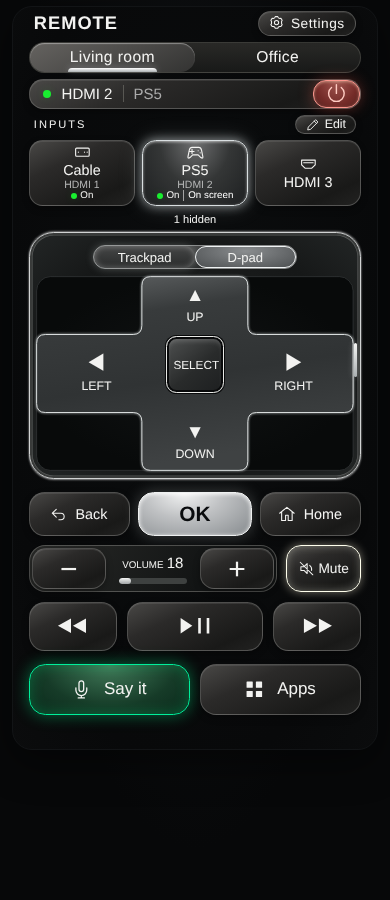
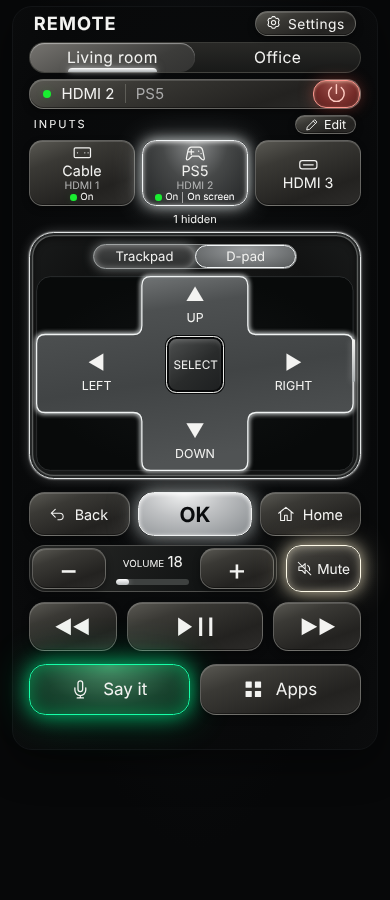
NEXUS mock: tune surfaces and glows to the reference PNG
Brighter chrome and D-pad plate, stronger PS5/OK/Mute/Say it glows, thicker
luminous navigation ring, longer trackpad tail, HDMI icon as a wide slot,
larger media icons, system typeface (SF on iPhone). Browser test still passes;
previews/reference-vs-code.png stacks the reference over the render.

Claude-Session: https://claude.ai/code/session_01MP8wXPz7fte7HKZgZuAaXG

diff --git a/grigson-tv/nexus-remote/NEXUS-Remote.html b/grigson-tv/nexus-remote/NEXUS-Remote.html
@@ -20,7 +20,7 @@
   --voice: #04e58b;
   --coral: #ff8177;
   --press-ms: 110ms;
-  font-family: Arial, Helvetica, sans-serif;
+  font-family: -apple-system, BlinkMacSystemFont, "SF Pro Text", Inter, "Segoe UI", Roboto, Helvetica, Arial, sans-serif;
 }
 * { box-sizing: border-box; }
 body { margin: 0; background: radial-gradient(ellipse at 50% 30%,#111315 0%,var(--page) 65%); color: var(--text); min-height: 100svh; }
@@ -35,14 +35,14 @@ button:active, button.is-pressed { filter: brightness(1.2); transform: scale(.98
 .comparison .remote { width: 100%; }
 .remote-inner { --u: calc(100cqw / 558); padding: calc(6 * var(--u)) calc(24 * var(--u)) calc(52 * var(--u)); font-size: calc(24 * var(--u)); }
 .icon { width: 1.1em; height: 1.1em; vertical-align: middle; flex-shrink: 0; stroke: currentColor; stroke-width: 1.65; fill: none; stroke-linecap: round; stroke-linejoin: round; }
-.chrome { background: linear-gradient(155deg,#494846 0%,#2b2a29 33%,#191918 78%,#222221); border: 1px solid #7979778c; box-shadow: inset 0 1px 0 #ffffff16,0 3px 7px #0005; }
+.chrome { background: linear-gradient(160deg,#5a5953 0%,#3a3935 28%,#232220 72%,#2d2c2a); border: 1px solid #8e8e8a8c; box-shadow: inset 0 1px 0 #ffffff26,inset 0 -1px 0 #0006,0 3px 7px #0006; }
 .header { height: calc(39 * var(--u)); display: flex; align-items: flex-start; justify-content: space-between; padding: 0 calc(8 * var(--u)); }
 .brand { font-size: calc(28 * var(--u)); letter-spacing: .055em; font-weight: 700; margin: calc(2 * var(--u)) 0 0; }
 .settings { display: flex; align-items: center; gap: .5em; padding: 0 calc(16 * var(--u)); height: calc(39 * var(--u)); border-radius: calc(22 * var(--u)); font-size: calc(21 * var(--u)); letter-spacing: .04em; }
 .rooms { margin-top: calc(8 * var(--u)); display: flex; height: calc(48 * var(--u)); border: 1px solid #61615c75; border-radius: calc(24 * var(--u)); background: linear-gradient(#292927,#181918); }
 .room { position: relative; border: 0; flex: 1; background: transparent; border-radius: inherit; font-size: calc(24 * var(--u)); letter-spacing: .025em; }
-.room[aria-pressed=true] { background: linear-gradient(155deg,#656360,#333332); box-shadow: inset 0 1px 1px #ffffff60; }
-.room[aria-pressed=true]::after { content: ''; position: absolute; bottom: 0; height: calc(6 * var(--u)); width: 54%; left: 23%; border-radius: 8px 8px 0 0; background: linear-gradient(#fff,#abb0b2); box-shadow: 0 -1px 7px #dadde350; }
+.room[aria-pressed=true] { background: linear-gradient(155deg,#767470,#3c3c3a 70%,#333332); box-shadow: inset 0 1px 1px #ffffff70; }
+.room[aria-pressed=true]::after { content: ''; position: absolute; bottom: 0; height: calc(6 * var(--u)); width: 54%; left: 23%; border-radius: 8px 8px 0 0; background: linear-gradient(#fff,#abb0b2); box-shadow: 0 -1px 9px #e6e9ee80,0 0 4px #fff6; }
 .status { display: flex; align-items: center; margin-top: calc(9 * var(--u)); height: calc(46 * var(--u)); border-radius: calc(22 * var(--u)); padding-left: calc(21 * var(--u)); gap: calc(16 * var(--u)); font-size: calc(23 * var(--u)); }
 .dot { width: calc(12 * var(--u)); height: calc(12 * var(--u)); border-radius: 50%; background: var(--green); box-shadow: 0 0 8px #22e72a20; display: inline-block; flex: 0 0 auto; }
 .dot.off { background: #656765; box-shadow: none; }
@@ -55,26 +55,26 @@ button:active, button.is-pressed { filter: brightness(1.2); transform: scale(.98
 .edit { border-radius:calc(16 * var(--u)); height:calc(29 * var(--u)); padding:0 calc(14 * var(--u)); display:flex; align-items:center; gap:.45em; font-size:calc(19 * var(--u)); }
 .inputs { display:grid; grid-template-columns:repeat(3,minmax(0,1fr)); gap:calc(10 * var(--u)); }
 .input-card { height:calc(101 * var(--u)); border-radius:calc(21 * var(--u)); padding:calc(7 * var(--u)) calc(3 * var(--u)); display:flex; align-items:center; justify-content:center; flex-direction:column; font-size:calc(22 * var(--u)); line-height:1.12; }
-.input-card > .icon { width:calc(35 * var(--u)); height:calc(25 * var(--u)); margin-bottom:calc(2 * var(--u)); }
+.input-card > .icon { width:calc(44 * var(--u)); height:calc(30 * var(--u)); margin-bottom:calc(1 * var(--u)); stroke-width:1.5; }
 .input-card .port { color:var(--muted); font-size:calc(16 * var(--u)); margin-top:calc(1 * var(--u)); }
 .input-card .state-line { display:flex; align-items:center; justify-content:center; gap:calc(5 * var(--u)); height:calc(22 * var(--u)); font-size:calc(15 * var(--u)); white-space:nowrap; }
 .state-line .dot { width:calc(10 * var(--u)); height:calc(10 * var(--u)); }
 .on-screen { border-left:1px solid #a4a4a4; padding-left:calc(7 * var(--u)); color:#fff; }
-.input-card[aria-pressed=true] { background:radial-gradient(ellipse at 50% 0%,#6f7071,#343636 48%,#242627 85%); border-color:#d9dfe1; box-shadow: inset 0 1px 3px #fff9,0 0 11px #e7f0f299,0 0 25px #d2d6d62e; }
+.input-card[aria-pressed=true] { background:radial-gradient(ellipse at 50% 0%,#8d8f90,#464848 45%,#2c2e2f 85%); border-color:#f1f4f5; box-shadow: inset 0 1px 4px #fffc,inset 0 0 10px #ffffff22,0 0 14px #f1f7f7cc,0 0 32px #d6dada55; }
 .hidden-count { text-align:center; height:calc(40 * var(--u)); display:grid; place-items:center; font-size:calc(17 * var(--u)); margin:0; }
-.navigation { position:relative; height:calc(378 * var(--u)); border-radius:calc(38 * var(--u)); border:calc(2 * var(--u)) solid #d1d3d3; padding:calc(18 * var(--u)) calc(10 * var(--u)) calc(9 * var(--u)); background:radial-gradient(ellipse at 50% 50%,#202222,#161818 65%,#232626); box-shadow:inset 0 0 0 calc(3 * var(--u)) #393b3a,inset 0 0 0 calc(4 * var(--u)) #a1a4a270,0 1px 2px #fff8,0 -1px 2px #ffffff70; overflow:hidden; }
+.navigation { position:relative; height:calc(378 * var(--u)); border-radius:calc(38 * var(--u)); border:calc(3 * var(--u)) solid #e3e6e6; padding:calc(17 * var(--u)) calc(9 * var(--u)) calc(8 * var(--u)); background:radial-gradient(ellipse at 50% 45%,#1a1b1b,#111212 60%,#1c1e1e); box-shadow:inset 0 0 0 calc(3 * var(--u)) #262828,inset 0 0 0 calc(5 * var(--u)) #a6a9a880,inset 0 2px 6px calc(5 * var(--u)) #0008,0 0 12px #ffffff38,0 0 2px #fff; overflow:hidden; }
 .mode-selector { position:relative; z-index:3; display:flex; width:64%; height:calc(38 * var(--u)); margin:auto; border:1px solid #898b8b; background:linear-gradient(#454646,#292b2b); border-radius:calc(22 * var(--u)); }
 .mode { width:50%; border:0; background:transparent; border-radius:inherit; font-size:calc(20 * var(--u)); }
-.mode[aria-selected=true] { background:radial-gradient(ellipse at 50% 20%,#8a8d8f,#4d5052); border:1px solid #f0f3f4; box-shadow:inset 0 0 6px #fff5,0 0 9px #dce5e357; }
+.mode[aria-selected=true] { background:radial-gradient(ellipse at 50% 20%,#9a9d9f,#555859); border:1px solid #f4f7f8; box-shadow:inset 0 0 8px #fff7,0 0 12px #e4ecec99; }
 .track-surface { position:absolute; inset:calc(62 * var(--u)) calc(26 * var(--u)) calc(13 * var(--u)); touch-action:none; cursor:grab; outline:none; }
 .track-surface:active { cursor:grabbing; }
-.contact { position:absolute; left:50%; top:27%; width:calc(15 * var(--u)); height:calc(15 * var(--u)); border-radius:50%; background:radial-gradient(circle at 35% 20%,#fff,#c4c8ca 65%,#888d91); border:1px solid #e4e8e8; box-shadow:0 0 14px 5px #e3eded60; transform:translate(-50%,-50%); pointer-events:none; }
-.contact::after { content:''; position:absolute; width:80%; height:calc(49 * var(--u)); top:80%; left:10%; background:linear-gradient(#c9d2d399,transparent); clip-path:polygon(0 0,100% 0,50% 100%); filter:blur(3px); }
+.contact { position:absolute; left:50%; top:27%; width:calc(15 * var(--u)); height:calc(15 * var(--u)); border-radius:50%; background:radial-gradient(circle at 35% 20%,#fff,#c4c8ca 65%,#888d91); border:1px solid #e4e8e8; box-shadow:0 0 18px 7px #e3eded70; transform:translate(-50%,-50%); pointer-events:none; }
+.contact::after { content:''; position:absolute; width:90%; height:calc(72 * var(--u)); top:75%; left:5%; background:linear-gradient(#d6dedfb3,#aab2b355 45%,transparent); clip-path:polygon(0 0,100% 0,50% 100%); filter:blur(4px); }
 .contact.touching { box-shadow:0 0 18px 8px #e3eded88; }
 .track-copy { position:absolute; width:100%; bottom:calc(58 * var(--u)); text-align:center; margin:0; font-size:calc(21 * var(--u)); line-height:1.35; pointer-events:none; }
 .edge-hint { position:absolute; width:100%; bottom:calc(12 * var(--u)); text-align:center; margin:0; font-size:calc(16 * var(--u)); pointer-events:none; }
 .edge-swipe { position:absolute; z-index:4; right:0; top:calc(62 * var(--u)); bottom:calc(10 * var(--u)); width:24px; touch-action:none; cursor:ew-resize; }
-.edge-swipe::after { content:''; position:absolute; top:35%; right:calc(5 * var(--u)); width:calc(5 * var(--u)); height:calc(53 * var(--u)); border-radius:8px; background:linear-gradient(#f6f6f4,#aaafb1); box-shadow:0 0 7px #fff5; }
+.edge-swipe::after { content:''; position:absolute; top:33%; right:calc(8 * var(--u)); width:calc(5 * var(--u)); height:calc(66 * var(--u)); border-radius:8px; background:linear-gradient(#f6f6f4,#aaafb1); box-shadow:0 0 7px #fff5; }
 .dpad { position:absolute; inset:calc(66 * var(--u)) calc(10 * var(--u)) calc(10 * var(--u)); }
 .dpad-art { width:100%; height:100%; position:absolute; overflow:visible; pointer-events:none; }
 .direction { position:absolute; border:0; background:transparent; padding:0; display:flex; flex-direction:column; justify-content:center; align-items:center; gap:calc(8 * var(--u)); border-radius:calc(12 * var(--u)); font-size:calc(19 * var(--u)); touch-action:none; }
@@ -88,23 +88,23 @@ button:active, button.is-pressed { filter: brightness(1.2); transform: scale(.98
 [hidden] { display:none !important; }
 .primary { display:grid; grid-template-columns:1fr 1.13fr 1fr; gap:calc(12 * var(--u)); margin-top:calc(21 * var(--u)); height:calc(67 * var(--u)); }
 .primary button { border-radius:calc(24 * var(--u)); display:flex; align-items:center; justify-content:center; gap:calc(13 * var(--u)); font-size:calc(22 * var(--u)); }
-.primary .okay { font-size:calc(32 * var(--u)); font-weight:700; color:#090b0d; border:1px solid #eef0f0; background:radial-gradient(ellipse at 40% 0%,#f1f2f2,#bfc1c3 42%,#909497 90%); box-shadow:inset 0 1px 4px #fff,0 0 16px #c8d0d045; }
+.primary .okay { font-size:calc(32 * var(--u)); font-weight:700; color:#090b0d; border:1px solid #eef0f0; background:radial-gradient(ellipse at 40% 0%,#f1f2f2,#bfc1c3 42%,#909497 90%); box-shadow:inset 0 1px 4px #fff,0 0 18px #e6ecec99,0 0 34px #c8d0d040; }
 .volume-row { margin-top:calc(14 * var(--u)); display:grid; grid-template-columns:3.3fr 1fr; gap:calc(14 * var(--u)); height:calc(72 * var(--u)); }
 .volume-strip { display:grid; grid-template-columns:1fr 1.2fr 1fr; padding:calc(3 * var(--u)); border-radius:calc(25 * var(--u)); border:1px solid #79797591; background:linear-gradient(120deg,#292a28,#121414 70%); gap:calc(4 * var(--u)); }
 .volume-key { border-radius:calc(22 * var(--u)); font-size:calc(46 * var(--u)); line-height:1; touch-action:none; }
 .volume-readout { display:flex; flex-direction:column; align-items:center; justify-content:center; gap:calc(12 * var(--u)); white-space:nowrap; }
 .volume-label { font-size:calc(15 * var(--u)); }
 .volume-number { font-size:calc(23 * var(--u)); padding-left:calc(5 * var(--u)); }
-.meter { width:76%; height:calc(8 * var(--u)); background:#3e4140; border-radius:20px; overflow:hidden; }
-.meter-fill { height:100%; border-radius:20px; background:linear-gradient(#f3f4f3,#a1a5a6); }
-.mute { border-radius:calc(23 * var(--u)); border:1px solid #ffffed; display:flex; justify-content:center; align-items:center; gap:.35em; font-size:calc(21 * var(--u)); box-shadow:inset 0 0 8px #ffffed50,0 0 10px #fff6db70; }
+.meter { width:82%; height:calc(10 * var(--u)); background:#3e4140; border-radius:20px; overflow:hidden; }
+.meter-fill { height:100%; border-radius:20px; background:linear-gradient(#ffffff,#b9bdbe); box-shadow:0 0 6px #ffffff60; }
+.mute { border-radius:calc(23 * var(--u)); border:1px solid #fffbe9; display:flex; justify-content:center; align-items:center; gap:.35em; font-size:calc(21 * var(--u)); box-shadow:inset 0 0 10px #fff6d880,0 0 16px #fff3d2b3,0 0 34px #fff0c850; }
 .mute[aria-pressed=true] { background:linear-gradient(#737573,#393b39); }
 .playback { margin-top:calc(15 * var(--u)); display:grid; grid-template-columns:1fr 1.54fr 1fr; gap:calc(15 * var(--u)); height:calc(75 * var(--u)); }
 .playback button { border-radius:calc(24 * var(--u)); font-size:calc(30 * var(--u)); display:grid; place-items:center; }
-.media-icon { width:calc(52 * var(--u)); height:calc(30 * var(--u)); fill:currentColor; }
+.media-icon { width:calc(62 * var(--u)); height:calc(36 * var(--u)); fill:currentColor; }
 .bottom { margin-top:calc(20 * var(--u)); height:calc(78 * var(--u)); display:grid; grid-template-columns:1fr 1fr; gap:calc(15 * var(--u)); }
 .bottom button { border-radius:calc(25 * var(--u)); display:flex; align-items:center; justify-content:center; gap:calc(20 * var(--u)); font-size:calc(26 * var(--u)); }
-.voice { border:calc(2 * var(--u)) solid #00ef9b; background:radial-gradient(ellipse at top,#417a59,#163b28 60%,#0a291b); box-shadow:inset 0 0 14px #00df764d,0 0 16px #00ef876b; }
+.voice { border:calc(2 * var(--u)) solid #16ffa8; background:radial-gradient(ellipse at top,#4a8a66,#1a4530 60%,#0b2d1e); box-shadow:inset 0 0 18px #00e07a73,0 0 20px #00f08db3,0 0 44px #00ef8755; }
 .voice[aria-pressed=true] { filter:brightness(1.3); }
 .toast { position:fixed; z-index:20; bottom:24px; left:50%; transform:translateX(-50%); background:#292d30; color:#fff; border:1px solid #81868a; border-radius:14px; padding:12px 18px; font-size:14px; max-width:90vw; opacity:0; pointer-events:none; transition:opacity .2s; }
 .toast.visible { opacity:1; }
@@ -174,7 +174,7 @@ dialog button.save { padding:10px 18px; border:1px solid #bec2c5; border-radius:
     edit: '<path d="m4 16-1 5 5-1L21 7l-4-4zM14.5 5.5l4 4"/>',
     cable: '<rect x="2" y="6" width="20" height="12" rx="1.5"/><path d="M6 12h.1M15 12h.1M19 12h.1"/>',
     game: '<path d="M7 5h10q3 0 4 4l2 10q0 3-3 1l-4-4H8l-4 4q-3 2-3-1L3 9q1-4 4-4zM7 8v6M4 11h6M16 10h.1M19 13h.1"/>',
-    hdmi: '<path d="M2 6h20v7l-5 5H7l-5-5zM5 10h14"/>',
+    hdmi: '<rect x="1.5" y="7" width="21" height="10" rx="3"/><path d="M6 12h12"/>',
     back: '<path d="m8 5-6 6 6 6M2 11h13a5 5 0 0 1 0 10h-3"/>',
     home: '<path d="m1 11 11-9 11 9M4 9v13h6v-8h4v8h6V9"/>',
     mute: '<path d="m3 9 5 0 5-5v16l-5-5H3zM17 7a8 8 0 0 1 3 8M2 2l20 20"/>',
@@ -228,12 +228,12 @@ dialog button.save { padding:10px 18px; border:1px solid #bec2c5; border-radius:
   }
   function dpadArt(id) {
     return `<svg class="dpad-art" viewBox="0 0 510 300" preserveAspectRatio="none" aria-hidden="true">
-      <defs><linearGradient id="plate-${id}" x1="0" y1="0" x2=".25" y2="1"><stop stop-color="#646768"/><stop offset=".25" stop-color="#383b3c"/><stop offset=".6" stop-color="#303334"/><stop offset="1" stop-color="#3f4243"/></linearGradient>
+      <defs><linearGradient id="plate-${id}" x1="0" y1="0" x2=".25" y2="1"><stop stop-color="#808384"/><stop offset=".25" stop-color="#4d5051"/><stop offset=".6" stop-color="#414445"/><stop offset="1" stop-color="#505354"/></linearGradient>
       <radialGradient id="void-${id}"><stop stop-color="#111314"/><stop offset="1" stop-color="#080a0a"/></radialGradient>
-      <filter id="glow-${id}" x="-10%" y="-10%" width="120%" height="120%"><feGaussianBlur stdDeviation="2"/></filter></defs>
+      <filter id="glow-${id}" x="-10%" y="-10%" width="120%" height="120%"><feGaussianBlur stdDeviation="3"/></filter></defs>
       <rect x="1" y="1" width="508" height="298" rx="22" fill="url(#void-${id})" stroke="#393c3d"/>
-      <path d="M184 1H326Q340 1 340 15V76Q340 90 354 90H495Q509 90 509 104V196Q509 210 495 210H354Q340 210 340 224V285Q340 299 326 299H184Q170 299 170 285V224Q170 210 156 210H15Q1 210 1 196V104Q1 90 15 90H156Q170 90 170 76V15Q170 1 184 1Z" fill="none" stroke="#dce1e2" stroke-width="3" filter="url(#glow-${id})" opacity=".6"/>
-      <path d="M184 1H326Q340 1 340 15V76Q340 90 354 90H495Q509 90 509 104V196Q509 210 495 210H354Q340 210 340 224V285Q340 299 326 299H184Q170 299 170 285V224Q170 210 156 210H15Q1 210 1 196V104Q1 90 15 90H156Q170 90 170 76V15Q170 1 184 1Z" fill="url(#plate-${id})" stroke="#e0e4e4" stroke-width="1.5"/>
+      <path d="M184 1H326Q340 1 340 15V76Q340 90 354 90H495Q509 90 509 104V196Q509 210 495 210H354Q340 210 340 224V285Q340 299 326 299H184Q170 299 170 285V224Q170 210 156 210H15Q1 210 1 196V104Q1 90 15 90H156Q170 90 170 76V15Q170 1 184 1Z" fill="none" stroke="#eef2f2" stroke-width="6" filter="url(#glow-${id})" opacity=".85"/>
+      <path d="M184 1H326Q340 1 340 15V76Q340 90 354 90H495Q509 90 509 104V196Q509 210 495 210H354Q340 210 340 224V285Q340 299 326 299H184Q170 299 170 285V224Q170 210 156 210H15Q1 210 1 196V104Q1 90 15 90H156Q170 90 170 76V15Q170 1 184 1Z" fill="url(#plate-${id})" stroke="#f0f3f3" stroke-width="2"/>
     </svg>`;
   }
   function markup(id) {

diff --git a/grigson-tv/nexus-remote/styles.css b/grigson-tv/nexus-remote/styles.css
@@ -12,7 +12,7 @@
   --voice: #04e58b;
   --coral: #ff8177;
   --press-ms: 110ms;
-  font-family: Arial, Helvetica, sans-serif;
+  font-family: -apple-system, BlinkMacSystemFont, "SF Pro Text", Inter, "Segoe UI", Roboto, Helvetica, Arial, sans-serif;
 }
 * { box-sizing: border-box; }
 body { margin: 0; background: radial-gradient(ellipse at 50% 30%,#111315 0%,var(--page) 65%); color: var(--text); min-height: 100svh; }
@@ -27,14 +27,14 @@ button:active, button.is-pressed { filter: brightness(1.2); transform: scale(.98
 .comparison .remote { width: 100%; }
 .remote-inner { --u: calc(100cqw / 558); padding: calc(6 * var(--u)) calc(24 * var(--u)) calc(52 * var(--u)); font-size: calc(24 * var(--u)); }
 .icon { width: 1.1em; height: 1.1em; vertical-align: middle; flex-shrink: 0; stroke: currentColor; stroke-width: 1.65; fill: none; stroke-linecap: round; stroke-linejoin: round; }
-.chrome { background: linear-gradient(155deg,#494846 0%,#2b2a29 33%,#191918 78%,#222221); border: 1px solid #7979778c; box-shadow: inset 0 1px 0 #ffffff16,0 3px 7px #0005; }
+.chrome { background: linear-gradient(160deg,#5a5953 0%,#3a3935 28%,#232220 72%,#2d2c2a); border: 1px solid #8e8e8a8c; box-shadow: inset 0 1px 0 #ffffff26,inset 0 -1px 0 #0006,0 3px 7px #0006; }
 .header { height: calc(39 * var(--u)); display: flex; align-items: flex-start; justify-content: space-between; padding: 0 calc(8 * var(--u)); }
 .brand { font-size: calc(28 * var(--u)); letter-spacing: .055em; font-weight: 700; margin: calc(2 * var(--u)) 0 0; }
 .settings { display: flex; align-items: center; gap: .5em; padding: 0 calc(16 * var(--u)); height: calc(39 * var(--u)); border-radius: calc(22 * var(--u)); font-size: calc(21 * var(--u)); letter-spacing: .04em; }
 .rooms { margin-top: calc(8 * var(--u)); display: flex; height: calc(48 * var(--u)); border: 1px solid #61615c75; border-radius: calc(24 * var(--u)); background: linear-gradient(#292927,#181918); }
 .room { position: relative; border: 0; flex: 1; background: transparent; border-radius: inherit; font-size: calc(24 * var(--u)); letter-spacing: .025em; }
-.room[aria-pressed=true] { background: linear-gradient(155deg,#656360,#333332); box-shadow: inset 0 1px 1px #ffffff60; }
-.room[aria-pressed=true]::after { content: ''; position: absolute; bottom: 0; height: calc(6 * var(--u)); width: 54%; left: 23%; border-radius: 8px 8px 0 0; background: linear-gradient(#fff,#abb0b2); box-shadow: 0 -1px 7px #dadde350; }
+.room[aria-pressed=true] { background: linear-gradient(155deg,#767470,#3c3c3a 70%,#333332); box-shadow: inset 0 1px 1px #ffffff70; }
+.room[aria-pressed=true]::after { content: ''; position: absolute; bottom: 0; height: calc(6 * var(--u)); width: 54%; left: 23%; border-radius: 8px 8px 0 0; background: linear-gradient(#fff,#abb0b2); box-shadow: 0 -1px 9px #e6e9ee80,0 0 4px #fff6; }
 .status { display: flex; align-items: center; margin-top: calc(9 * var(--u)); height: calc(46 * var(--u)); border-radius: calc(22 * var(--u)); padding-left: calc(21 * var(--u)); gap: calc(16 * var(--u)); font-size: calc(23 * var(--u)); }
 .dot { width: calc(12 * var(--u)); height: calc(12 * var(--u)); border-radius: 50%; background: var(--green); box-shadow: 0 0 8px #22e72a20; display: inline-block; flex: 0 0 auto; }
 .dot.off { background: #656765; box-shadow: none; }
@@ -47,26 +47,26 @@ button:active, button.is-pressed { filter: brightness(1.2); transform: scale(.98
 .edit { border-radius:calc(16 * var(--u)); height:calc(29 * var(--u)); padding:0 calc(14 * var(--u)); display:flex; align-items:center; gap:.45em; font-size:calc(19 * var(--u)); }
 .inputs { display:grid; grid-template-columns:repeat(3,minmax(0,1fr)); gap:calc(10 * var(--u)); }
 .input-card { height:calc(101 * var(--u)); border-radius:calc(21 * var(--u)); padding:calc(7 * var(--u)) calc(3 * var(--u)); display:flex; align-items:center; justify-content:center; flex-direction:column; font-size:calc(22 * var(--u)); line-height:1.12; }
-.input-card > .icon { width:calc(35 * var(--u)); height:calc(25 * var(--u)); margin-bottom:calc(2 * var(--u)); }
+.input-card > .icon { width:calc(44 * var(--u)); height:calc(30 * var(--u)); margin-bottom:calc(1 * var(--u)); stroke-width:1.5; }
 .input-card .port { color:var(--muted); font-size:calc(16 * var(--u)); margin-top:calc(1 * var(--u)); }
 .input-card .state-line { display:flex; align-items:center; justify-content:center; gap:calc(5 * var(--u)); height:calc(22 * var(--u)); font-size:calc(15 * var(--u)); white-space:nowrap; }
 .state-line .dot { width:calc(10 * var(--u)); height:calc(10 * var(--u)); }
 .on-screen { border-left:1px solid #a4a4a4; padding-left:calc(7 * var(--u)); color:#fff; }
-.input-card[aria-pressed=true] { background:radial-gradient(ellipse at 50% 0%,#6f7071,#343636 48%,#242627 85%); border-color:#d9dfe1; box-shadow: inset 0 1px 3px #fff9,0 0 11px #e7f0f299,0 0 25px #d2d6d62e; }
+.input-card[aria-pressed=true] { background:radial-gradient(ellipse at 50% 0%,#8d8f90,#464848 45%,#2c2e2f 85%); border-color:#f1f4f5; box-shadow: inset 0 1px 4px #fffc,inset 0 0 10px #ffffff22,0 0 14px #f1f7f7cc,0 0 32px #d6dada55; }
 .hidden-count { text-align:center; height:calc(40 * var(--u)); display:grid; place-items:center; font-size:calc(17 * var(--u)); margin:0; }
-.navigation { position:relative; height:calc(378 * var(--u)); border-radius:calc(38 * var(--u)); border:calc(2 * var(--u)) solid #d1d3d3; padding:calc(18 * var(--u)) calc(10 * var(--u)) calc(9 * var(--u)); background:radial-gradient(ellipse at 50% 50%,#202222,#161818 65%,#232626); box-shadow:inset 0 0 0 calc(3 * var(--u)) #393b3a,inset 0 0 0 calc(4 * var(--u)) #a1a4a270,0 1px 2px #fff8,0 -1px 2px #ffffff70; overflow:hidden; }
+.navigation { position:relative; height:calc(378 * var(--u)); border-radius:calc(38 * var(--u)); border:calc(3 * var(--u)) solid #e3e6e6; padding:calc(17 * var(--u)) calc(9 * var(--u)) calc(8 * var(--u)); background:radial-gradient(ellipse at 50% 45%,#1a1b1b,#111212 60%,#1c1e1e); box-shadow:inset 0 0 0 calc(3 * var(--u)) #262828,inset 0 0 0 calc(5 * var(--u)) #a6a9a880,inset 0 2px 6px calc(5 * var(--u)) #0008,0 0 12px #ffffff38,0 0 2px #fff; overflow:hidden; }
 .mode-selector { position:relative; z-index:3; display:flex; width:64%; height:calc(38 * var(--u)); margin:auto; border:1px solid #898b8b; background:linear-gradient(#454646,#292b2b); border-radius:calc(22 * var(--u)); }
 .mode { width:50%; border:0; background:transparent; border-radius:inherit; font-size:calc(20 * var(--u)); }
-.mode[aria-selected=true] { background:radial-gradient(ellipse at 50% 20%,#8a8d8f,#4d5052); border:1px solid #f0f3f4; box-shadow:inset 0 0 6px #fff5,0 0 9px #dce5e357; }
+.mode[aria-selected=true] { background:radial-gradient(ellipse at 50% 20%,#9a9d9f,#555859); border:1px solid #f4f7f8; box-shadow:inset 0 0 8px #fff7,0 0 12px #e4ecec99; }
 .track-surface { position:absolute; inset:calc(62 * var(--u)) calc(26 * var(--u)) calc(13 * var(--u)); touch-action:none; cursor:grab; outline:none; }
 .track-surface:active { cursor:grabbing; }
-.contact { position:absolute; left:50%; top:27%; width:calc(15 * var(--u)); height:calc(15 * var(--u)); border-radius:50%; background:radial-gradient(circle at 35% 20%,#fff,#c4c8ca 65%,#888d91); border:1px solid #e4e8e8; box-shadow:0 0 14px 5px #e3eded60; transform:translate(-50%,-50%); pointer-events:none; }
-.contact::after { content:''; position:absolute; width:80%; height:calc(49 * var(--u)); top:80%; left:10%; background:linear-gradient(#c9d2d399,transparent); clip-path:polygon(0 0,100% 0,50% 100%); filter:blur(3px); }
+.contact { position:absolute; left:50%; top:27%; width:calc(15 * var(--u)); height:calc(15 * var(--u)); border-radius:50%; background:radial-gradient(circle at 35% 20%,#fff,#c4c8ca 65%,#888d91); border:1px solid #e4e8e8; box-shadow:0 0 18px 7px #e3eded70; transform:translate(-50%,-50%); pointer-events:none; }
+.contact::after { content:''; position:absolute; width:90%; height:calc(72 * var(--u)); top:75%; left:5%; background:linear-gradient(#d6dedfb3,#aab2b355 45%,transparent); clip-path:polygon(0 0,100% 0,50% 100%); filter:blur(4px); }
 .contact.touching { box-shadow:0 0 18px 8px #e3eded88; }
 .track-copy { position:absolute; width:100%; bottom:calc(58 * var(--u)); text-align:center; margin:0; font-size:calc(21 * var(--u)); line-height:1.35; pointer-events:none; }
 .edge-hint { position:absolute; width:100%; bottom:calc(12 * var(--u)); text-align:center; margin:0; font-size:calc(16 * var(--u)); pointer-events:none; }
 .edge-swipe { position:absolute; z-index:4; right:0; top:calc(62 * var(--u)); bottom:calc(10 * var(--u)); width:24px; touch-action:none; cursor:ew-resize; }
-.edge-swipe::after { content:''; position:absolute; top:35%; right:calc(5 * var(--u)); width:calc(5 * var(--u)); height:calc(53 * var(--u)); border-radius:8px; background:linear-gradient(#f6f6f4,#aaafb1); box-shadow:0 0 7px #fff5; }
+.edge-swipe::after { content:''; position:absolute; top:33%; right:calc(8 * var(--u)); width:calc(5 * var(--u)); height:calc(66 * var(--u)); border-radius:8px; background:linear-gradient(#f6f6f4,#aaafb1); box-shadow:0 0 7px #fff5; }
 .dpad { position:absolute; inset:calc(66 * var(--u)) calc(10 * var(--u)) calc(10 * var(--u)); }
 .dpad-art { width:100%; height:100%; position:absolute; overflow:visible; pointer-events:none; }
 .direction { position:absolute; border:0; background:transparent; padding:0; display:flex; flex-direction:column; justify-content:center; align-items:center; gap:calc(8 * var(--u)); border-radius:calc(12 * var(--u)); font-size:calc(19 * var(--u)); touch-action:none; }
@@ -80,23 +80,23 @@ button:active, button.is-pressed { filter: brightness(1.2); transform: scale(.98
 [hidden] { display:none !important; }
 .primary { display:grid; grid-template-columns:1fr 1.13fr 1fr; gap:calc(12 * var(--u)); margin-top:calc(21 * var(--u)); height:calc(67 * var(--u)); }
 .primary button { border-radius:calc(24 * var(--u)); display:flex; align-items:center; justify-content:center; gap:calc(13 * var(--u)); font-size:calc(22 * var(--u)); }
-.primary .okay { font-size:calc(32 * var(--u)); font-weight:700; color:#090b0d; border:1px solid #eef0f0; background:radial-gradient(ellipse at 40% 0%,#f1f2f2,#bfc1c3 42%,#909497 90%); box-shadow:inset 0 1px 4px #fff,0 0 16px #c8d0d045; }
+.primary .okay { font-size:calc(32 * var(--u)); font-weight:700; color:#090b0d; border:1px solid #eef0f0; background:radial-gradient(ellipse at 40% 0%,#f1f2f2,#bfc1c3 42%,#909497 90%); box-shadow:inset 0 1px 4px #fff,0 0 18px #e6ecec99,0 0 34px #c8d0d040; }
 .volume-row { margin-top:calc(14 * var(--u)); display:grid; grid-template-columns:3.3fr 1fr; gap:calc(14 * var(--u)); height:calc(72 * var(--u)); }
 .volume-strip { display:grid; grid-template-columns:1fr 1.2fr 1fr; padding:calc(3 * var(--u)); border-radius:calc(25 * var(--u)); border:1px solid #79797591; background:linear-gradient(120deg,#292a28,#121414 70%); gap:calc(4 * var(--u)); }
 .volume-key { border-radius:calc(22 * var(--u)); font-size:calc(46 * var(--u)); line-height:1; touch-action:none; }
 .volume-readout { display:flex; flex-direction:column; align-items:center; justify-content:center; gap:calc(12 * var(--u)); white-space:nowrap; }
 .volume-label { font-size:calc(15 * var(--u)); }
 .volume-number { font-size:calc(23 * var(--u)); padding-left:calc(5 * var(--u)); }
-.meter { width:76%; height:calc(8 * var(--u)); background:#3e4140; border-radius:20px; overflow:hidden; }
-.meter-fill { height:100%; border-radius:20px; background:linear-gradient(#f3f4f3,#a1a5a6); }
-.mute { border-radius:calc(23 * var(--u)); border:1px solid #ffffed; display:flex; justify-content:center; align-items:center; gap:.35em; font-size:calc(21 * var(--u)); box-shadow:inset 0 0 8px #ffffed50,0 0 10px #fff6db70; }
+.meter { width:82%; height:calc(10 * var(--u)); background:#3e4140; border-radius:20px; overflow:hidden; }
+.meter-fill { height:100%; border-radius:20px; background:linear-gradient(#ffffff,#b9bdbe); box-shadow:0 0 6px #ffffff60; }
+.mute { border-radius:calc(23 * var(--u)); border:1px solid #fffbe9; display:flex; justify-content:center; align-items:center; gap:.35em; font-size:calc(21 * var(--u)); box-shadow:inset 0 0 10px #fff6d880,0 0 16px #fff3d2b3,0 0 34px #fff0c850; }
 .mute[aria-pressed=true] { background:linear-gradient(#737573,#393b39); }
 .playback { margin-top:calc(15 * var(--u)); display:grid; grid-template-columns:1fr 1.54fr 1fr; gap:calc(15 * var(--u)); height:calc(75 * var(--u)); }
 .playback button { border-radius:calc(24 * var(--u)); font-size:calc(30 * var(--u)); display:grid; place-items:center; }
-.media-icon { width:calc(52 * var(--u)); height:calc(30 * var(--u)); fill:currentColor; }
+.media-icon { width:calc(62 * var(--u)); height:calc(36 * var(--u)); fill:currentColor; }
 .bottom { margin-top:calc(20 * var(--u)); height:calc(78 * var(--u)); display:grid; grid-template-columns:1fr 1fr; gap:calc(15 * var(--u)); }
 .bottom button { border-radius:calc(25 * var(--u)); display:flex; align-items:center; justify-content:center; gap:calc(20 * var(--u)); font-size:calc(26 * var(--u)); }
-.voice { border:calc(2 * var(--u)) solid #00ef9b; background:radial-gradient(ellipse at top,#417a59,#163b28 60%,#0a291b); box-shadow:inset 0 0 14px #00df764d,0 0 16px #00ef876b; }
+.voice { border:calc(2 * var(--u)) solid #16ffa8; background:radial-gradient(ellipse at top,#4a8a66,#1a4530 60%,#0b2d1e); box-shadow:inset 0 0 18px #00e07a73,0 0 20px #00f08db3,0 0 44px #00ef8755; }
 .voice[aria-pressed=true] { filter:brightness(1.3); }
 .toast { position:fixed; z-index:20; bottom:24px; left:50%; transform:translateX(-50%); background:#292d30; color:#fff; border:1px solid #81868a; border-radius:14px; padding:12px 18px; font-size:14px; max-width:90vw; opacity:0; pointer-events:none; transition:opacity .2s; }
 .toast.visible { opacity:1; }

diff --git a/grigson-tv/nexus-remote/app.js b/grigson-tv/nexus-remote/app.js
@@ -16,7 +16,7 @@
     edit: '<path d="m4 16-1 5 5-1L21 7l-4-4zM14.5 5.5l4 4"/>',
     cable: '<rect x="2" y="6" width="20" height="12" rx="1.5"/><path d="M6 12h.1M15 12h.1M19 12h.1"/>',
     game: '<path d="M7 5h10q3 0 4 4l2 10q0 3-3 1l-4-4H8l-4 4q-3 2-3-1L3 9q1-4 4-4zM7 8v6M4 11h6M16 10h.1M19 13h.1"/>',
-    hdmi: '<path d="M2 6h20v7l-5 5H7l-5-5zM5 10h14"/>',
+    hdmi: '<rect x="1.5" y="7" width="21" height="10" rx="3"/><path d="M6 12h12"/>',
     back: '<path d="m8 5-6 6 6 6M2 11h13a5 5 0 0 1 0 10h-3"/>',
     home: '<path d="m1 11 11-9 11 9M4 9v13h6v-8h4v8h6V9"/>',
     mute: '<path d="m3 9 5 0 5-5v16l-5-5H3zM17 7a8 8 0 0 1 3 8M2 2l20 20"/>',
@@ -70,12 +70,12 @@
   }
   function dpadArt(id) {
     return `<svg class="dpad-art" viewBox="0 0 510 300" preserveAspectRatio="none" aria-hidden="true">
-      <defs><linearGradient id="plate-${id}" x1="0" y1="0" x2=".25" y2="1"><stop stop-color="#646768"/><stop offset=".25" stop-color="#383b3c"/><stop offset=".6" stop-color="#303334"/><stop offset="1" stop-color="#3f4243"/></linearGradient>
+      <defs><linearGradient id="plate-${id}" x1="0" y1="0" x2=".25" y2="1"><stop stop-color="#808384"/><stop offset=".25" stop-color="#4d5051"/><stop offset=".6" stop-color="#414445"/><stop offset="1" stop-color="#505354"/></linearGradient>
       <radialGradient id="void-${id}"><stop stop-color="#111314"/><stop offset="1" stop-color="#080a0a"/></radialGradient>
-      <filter id="glow-${id}" x="-10%" y="-10%" width="120%" height="120%"><feGaussianBlur stdDeviation="2"/></filter></defs>
+      <filter id="glow-${id}" x="-10%" y="-10%" width="120%" height="120%"><feGaussianBlur stdDeviation="3"/></filter></defs>
       <rect x="1" y="1" width="508" height="298" rx="22" fill="url(#void-${id})" stroke="#393c3d"/>
-      <path d="M184 1H326Q340 1 340 15V76Q340 90 354 90H495Q509 90 509 104V196Q509 210 495 210H354Q340 210 340 224V285Q340 299 326 299H184Q170 299 170 285V224Q170 210 156 210H15Q1 210 1 196V104Q1 90 15 90H156Q170 90 170 76V15Q170 1 184 1Z" fill="none" stroke="#dce1e2" stroke-width="3" filter="url(#glow-${id})" opacity=".6"/>
-      <path d="M184 1H326Q340 1 340 15V76Q340 90 354 90H495Q509 90 509 104V196Q509 210 495 210H354Q340 210 340 224V285Q340 299 326 299H184Q170 299 170 285V224Q170 210 156 210H15Q1 210 1 196V104Q1 90 15 90H156Q170 90 170 76V15Q170 1 184 1Z" fill="url(#plate-${id})" stroke="#e0e4e4" stroke-width="1.5"/>
+      <path d="M184 1H326Q340 1 340 15V76Q340 90 354 90H495Q509 90 509 104V196Q509 210 495 210H354Q340 210 340 224V285Q340 299 326 299H184Q170 299 170 285V224Q170 210 156 210H15Q1 210 1 196V104Q1 90 15 90H156Q170 90 170 76V15Q170 1 184 1Z" fill="none" stroke="#eef2f2" stroke-width="6" filter="url(#glow-${id})" opacity=".85"/>
+      <path d="M184 1H326Q340 1 340 15V76Q340 90 354 90H495Q509 90 509 104V196Q509 210 495 210H354Q340 210 340 224V285Q340 299 326 299H184Q170 299 170 285V224Q170 210 156 210H15Q1 210 1 196V104Q1 90 15 90H156Q170 90 170 76V15Q170 1 184 1Z" fill="url(#plate-${id})" stroke="#f0f3f3" stroke-width="2"/>
     </svg>`;
   }
   function markup(id) {
